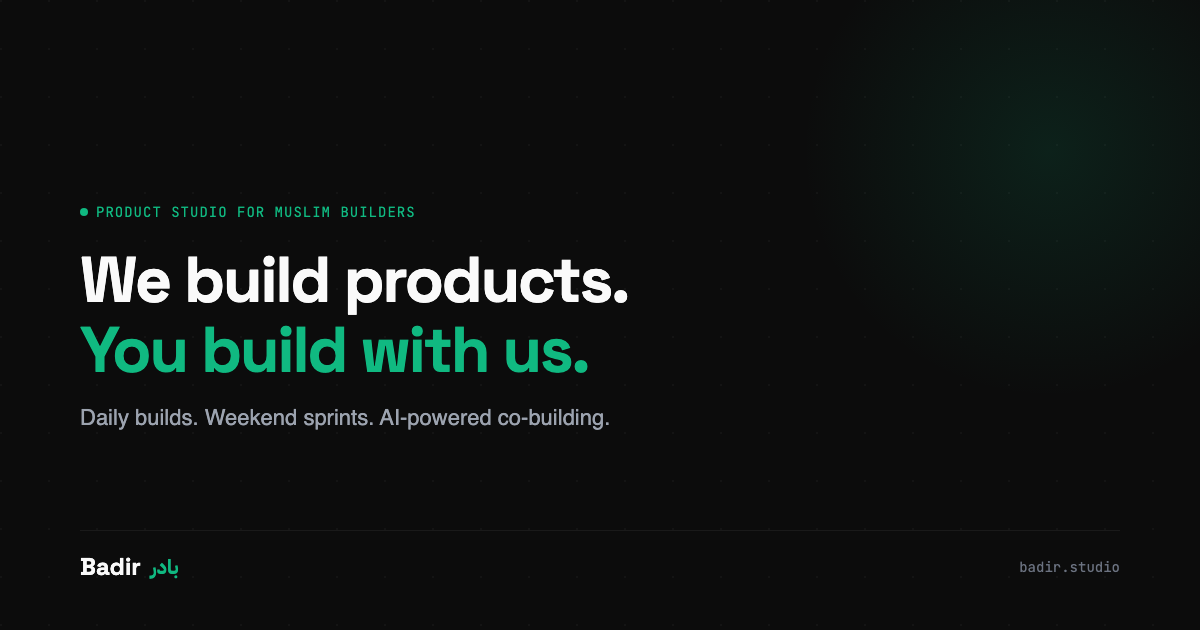
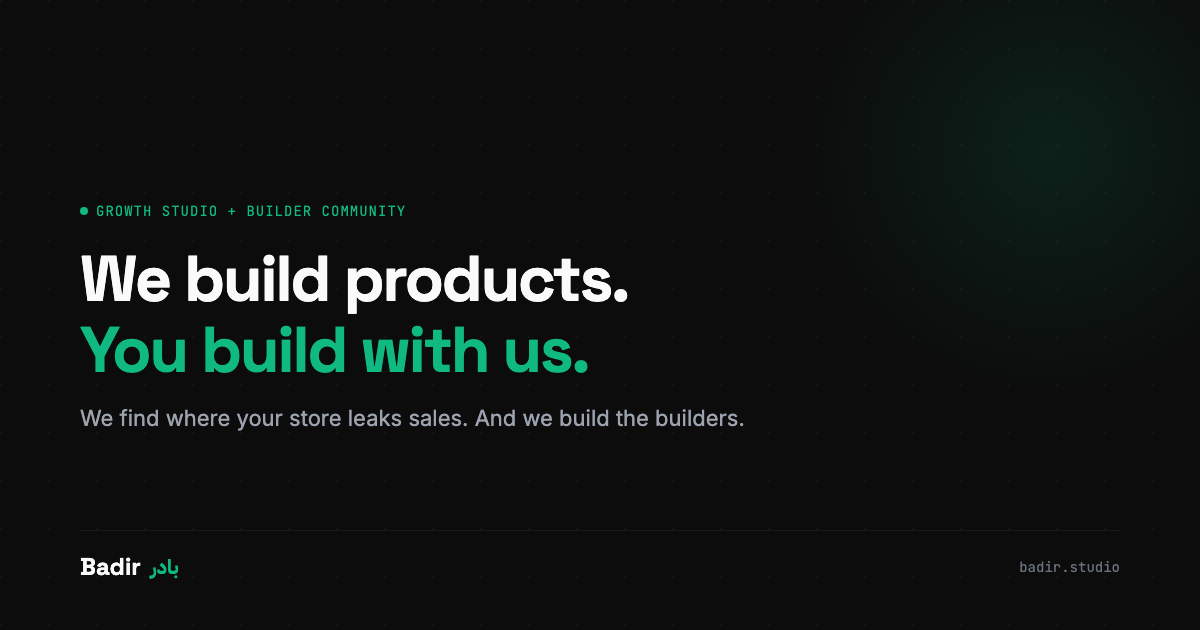
fix(honesty): fabricated-persona pages, false competitor claims, invented stats
A second, deeper adversarial audit found an older site cluster under the
same domain that every previous pass had missed. All findings below were
verified directly before acting.

FABRICATED PEOPLE (worst finding). /community listed invented named
professionals under the heading 'Trusted doctors, lawyers, accountants,
tradies': 'Dr. Fatima Hassan - General Practitioner. Accepts new patients',
'Ahmed Ali - Immigration Lawyer ... visa applications, residency, work
permits', 'Hassan Electrical - Licensed electrician', plus invented housing
in real Tauranga suburbs and 'Community-verified' halal tags. Immigration
advice is a licensed activity in NZ and 'licensed electrician' is a
regulated claim. /feed carried invented members flagged verified:true, one
with a mentor badge running weekly hours, and fake revenue - and BOTH
api/signup.js and api/signin.js redirected every real new account there.

Some listings on /community are real (Turkish Stars Kebab, Pak N Save), so
surgical deletion was unsafe. Both pages are instead made unreachable via a
TEMPORARY vercel redirect pending a founder decision, and removed from the
sitemap. Fully reversible: delete two entries from vercel.json. Signup and
signin now land on /build instead of the fabricated feed.

FALSE CLAIMS ABOUT NAMED THIRD PARTIES
- Muslamic Makers was described in the present tense as running meetups
  with 'no shipping cadence ... you go home'. It retired in 2026 after a
[…]

diff --git a/index.html b/index.html
@@ -27,7 +27,7 @@
       "name": "Badir Studio",
       "alternateName": ["بادر", "Badir"],
       "description": "Two co-equal engines: a studio that finds where a Muslim online brand's store is leaking sales, fixes it and proves the result in the owner's own numbers (modest-fashion-led), and a builder community where Muslim builders ship something every day. Based in Tauranga, New Zealand.",
-      "disambiguatingDescription": "Badir Studio (badir.studio) is a product studio for Muslim builders founded in 2026 in New Zealand. Not affiliated with the BADIR Program technology incubator in Saudi Arabia.",
+      "disambiguatingDescription": "Badir (badir.studio) is a growth studio for Muslim online brands and a builder community, founded in 2026 in New Zealand. Not affiliated with the BADIR Program technology incubator in Saudi Arabia.",
       "url": "https://badir.studio",
       "sameAs": [
         "https://linkedin.com/in/mustafa-demirsoy",
@@ -84,7 +84,7 @@
           "name": "How much do Badir studio services cost?",
           "acceptedAnswer": {
             "@type": "Answer",
-            "text": "Pricing is project-based: Product Sprints (48hr) $2K-5K, MVP Development $5K-20K, Brand Strategy (full pipeline) $3K-10K, AI Automation Setup $5K-15K, Monthly Monitoring $500-2K/mo retainer. We also work on equity or revenue share for selected projects. These are PROJECT rates. The /offer growth ladder is separate: the audit is free, and during the founding cohort the Build and Run rates are given on the call rather than published."
+            "text": "Pricing is project-based: Product Sprints (48hr) $2K-5K, MVP Development $5K-20K, Brand Strategy (full pipeline) $3K-10K, AI Automation Setup $5K-15K, Monthly Monitoring $500-2K/mo retainer. Badir does not take equity; engagements are project-based or retainer. These are PROJECT rates. The /offer growth ladder is separate: the audit is free, and during the founding cohort the Build and Run rates are given on the call rather than published."
           }
         },
         {
@@ -108,7 +108,7 @@
           "name": "What is the CORE framework?",
           "acceptedAnswer": {
             "@type": "Answer",
-            "text": "CORE is Badir's proprietary brand discovery framework. It maps a business's Core purpose, Origin story, Resonance points (what connects with the audience), and Expression system (visual and verbal identity). It produces a complete brand foundation: positioning, messaging, voice, and design system."
+            "text": "CORE is our adaptation of Jose Caballer's (The Futur) brand discovery framework. It maps a business's Core purpose, Origin story, Resonance points (what connects with the audience), and Expression system (visual and verbal identity). It produces a complete brand foundation: positioning, messaging, voice, and design system."
           }
         },
         {
@@ -1202,7 +1202,7 @@
             <div class="stats-bar reveal">
                 <div class="stat"><div class="stat-val"><span class="accent">6</span></div><div class="stat-label">Products Shipped</div></div>
                 <div class="stat"><div class="stat-val">48<span style="font-size:18px">hr</span></div><div class="stat-label">Sprint to Ship</div></div>
-                <div class="stat"><div class="stat-val">$2.43<span style="font-size:18px">T</span></div><div class="stat-label">Halal Economy</div></div>
+                <div class="stat"><div class="stat-val">$2.43<span style="font-size:18px">T</span></div><div class="stat-label">Muslim consumer spend</div></div>
                 <div class="stat"><div class="stat-val"><span class="accent">313</span></div><div class="stat-label">The Odds at Badr</div></div>
             </div>
             <div class="proof-strip reveal">
@@ -1426,7 +1426,7 @@
                 <div class="why-card why-problem">
                     <div class="why-label">The gap</div>
                     <h3>Muslim youth are the largest untapped builder generation on earth.</h3>
-                    <p><strong>Nearly 2 billion Muslims</strong> — with a median age of 24, the youngest demographic of any major faith. A <strong>$2.43 trillion</strong> halal economy growing to $3.36 trillion by 2028. Yet Muslim founders are deeply <strong>underrepresented</strong> in tech — just 3% of UK VC-backed startups have a Muslim founder. The talent is there. The drive is there. The faith is there. What's missing is a place that turns inspiration into products — not another conference, not another accelerator that takes equity, not another MSA that talks but never ships.</p>
+                    <p><strong>Nearly 2 billion Muslims</strong> — with a median age of 24, the youngest demographic of any major faith. <strong>US$2.43 trillion</strong> in Muslim consumer spend growing to $3.36 trillion by 2028. Yet Muslim founders are deeply <strong>underrepresented</strong> in tech — just 3% of the top-20 UK VC-backed startups have a Muslim founder. The talent is there. The drive is there. The faith is there. What's missing is a place that turns inspiration into products — not another conference, not another accelerator that takes equity, not another MSA that talks but never ships.</p>
                 </div>
 
                 <div class="why-card why-solution">
@@ -1754,7 +1754,7 @@
                 <div class="agent-panel">
                     <div class="agent-panel-header">
                         <div class="agent-panel-title">AI Operating System</div>
-                        <div class="agent-panel-status">24 agents online</div>
+                        <div class="agent-panel-status">24 agents in the system</div>
                     </div>
                     <div class="agent-list">
                         <div class="agent-item"><span class="agent-item-icon">📝</span><span class="agent-item-name">Content Engine</span><span class="agent-item-dot"></span></div>

diff --git a/ldj.html b/ldj.html
@@ -4,11 +4,11 @@
     <meta charset="UTF-8">
     <meta name="viewport" content="width=device-width, initial-scale=1.0">
     <title>Lightning Decision Jam — 45 Min Sprint Format | Badir</title>
-    <meta name="description" content="A 45-minute Lightning Decision Jam sprint format for Badir's weekend sessions. Problem → Solution → Action in one session. Used by Google, Spotify, LEGO.">
+    <meta name="description" content="A 45-minute Lightning Decision Jam sprint format for Badir's weekend sessions. Problem → Solution → Action in one session. A 45-minute decision format.">
     <meta name="robots" content="index, follow, max-snippet:-1, max-image-preview:large, max-video-preview:-1">
     <link rel="canonical" href="https://badir.studio/ldj">
     <meta property="og:title" content="Lightning Decision Jam — Solve Real Problems in 45 Minutes">
-    <meta property="og:description" content="A structured sprint where Muslim builders solve their biggest blockers together. No lectures. No theory. Just action. Used by Google, Spotify, LEGO.">
+    <meta property="og:description" content="A structured sprint where Muslim builders solve their biggest blockers together. No lectures. No theory. Just action. A 45-minute decision format.">
     <meta property="og:type" content="website">
     <meta property="og:url" content="https://badir.studio/ldj">
     <meta property="og:image" content="https://badir.studio/og-image.png">
@@ -219,27 +219,27 @@
     <h2 class="reveal">How the Best Teams Solve Problems</h2>
 
     <p class="sprint-intro reveal" style="margin-bottom: 24px;">
-        The Lightning Decision Jam isn't something we invented — it's the same structured sprint methodology used by <strong>Google, Spotify, LEGO, Slack, and hundreds of top tech companies</strong> to make fast, high-quality decisions.
+        The Lightning Decision Jam isn't something we invented — it's the same structured sprint methodology widely used in product teams. <strong>Badir has no affiliation with any company named here</strong> to make fast, high-quality decisions.
     </p>
     <p class="sprint-intro reveal" style="margin-bottom: 32px;">
-        Developed by <strong>AJ&Smart</strong> (the team behind Google's Design Sprint), the LDJ is built on decades of research in collaborative problem-solving. The data is clear:
+        Developed by <strong>AJ&amp;Smart</strong>, building on the Design Sprint created by Jake Knapp at Google Ventures, the LDJ is built on decades of research in collaborative problem-solving. Why the format works:
     </p>
 
     <div class="score-grid stagger" style="margin-bottom: 48px;">
         <div class="score-item reveal">
             <div class="number" data-count="3.5" data-suffix="x">0</div>
             <h4>Faster Decisions</h4>
-            <p>Structured sprints produce decisions 3.5x faster than traditional meetings (McKinsey, 2024)</p>
+            <p>Structured sprints replace open-ended meetings with a timeboxed decision</p>
         </div>
         <div class="score-item reveal">
             <div class="number" data-count="75" data-suffix="%">0</div>
             <h4>Ideas from Quiet Voices</h4>
-            <p>Silent writing phases surface 75% more ideas from introverts who stay quiet in open discussion</p>
+            <p>Silent writing phases give quieter people a real say who stay quiet in open discussion</p>
         </div>
         <div class="score-item reveal">
             <div class="number" data-count="92" data-suffix="%">0</div>
             <h4>Follow-Through Rate</h4>
-            <p>Public commitments with deadlines have a 92% follow-through rate vs 30% for "let's circle back"</p>
+            <p>Public commitments with a named owner and a date beat "let's circle back"</p>
         </div>
         <div class="score-item reveal">
             <div class="number" data-count="0" data-suffix="">0</div>

diff --git a/services.html b/services.html
@@ -77,7 +77,7 @@
           "name": "What is the CORE framework?",
           "acceptedAnswer": {
             "@type": "Answer",
-            "text": "CORE is Badir's proprietary brand discovery method. C = Core purpose (why you exist beyond money). O = Origin story (what brought you here). R = Resonance points (what connects with your specific audience). E = Expression system (voice, visuals, messaging). It produces a complete brand foundation that guides everything you build."
+            "text": "CORE is our adaptation of Jose Caballer's (The Futur) brand discovery method. C = Core purpose (why you exist beyond money). O = Origin story (what brought you here). R = Resonance points (what connects with your specific audience). E = Expression system (voice, visuals, messaging). It produces a complete brand foundation that guides everything you build."
           }
         },
         {
@@ -101,7 +101,7 @@
           "name": "Do you work with businesses outside New Zealand?",
           "acceptedAnswer": {
             "@type": "Answer",
-            "text": "Yes. Badir is based in Tauranga, NZ but all work is delivered remotely. We serve clients in New Zealand, Australia, UK, US, and the Middle East. Time zones are managed through async communication and structured sprint schedules."
+            "text": "Yes. Badir is based in Tauranga, NZ and all work is delivered remotely. We are pre-launch and onboarding a founding cohort of 20 brands. Time zones are managed through async communication and structured sprint schedules."
           }
         }
       ]
@@ -714,7 +714,7 @@
     <!-- CORE FRAMEWORK -->
     <section class="core-section">
         <div class="container">
-            <div class="badge badge-gold" style="display:block;text-align:center;margin-bottom:24px;">Proprietary Method</div>
+            <div class="badge badge-gold" style="display:block;text-align:center;margin-bottom:24px;">Adapted Framework</div>
             <h2>The CORE Framework</h2>
             <p>Every brand we build starts here. Four dimensions that turn a vague idea into a clear, differentiated brand.</p>
 
@@ -818,7 +818,7 @@
                         <span class="faq-toggle">+</span>
                     </div>
                     <div class="faq-a">
-                        <p>Yes. Badir is based in Tauranga, NZ but all work is delivered remotely. We serve clients in New Zealand, Australia, UK, US, and the Middle East. Time zones are managed through async communication and structured sprint schedules.</p>
+                        <p>Yes. Badir is based in Tauranga, NZ and all work is delivered remotely. We are pre-launch and onboarding a founding cohort of 20 brands. Time zones are managed through async communication and structured sprint schedules.</p>
                     </div>
                 </div>
 
@@ -828,7 +828,7 @@
                         <span class="faq-toggle">+</span>
                     </div>
                     <div class="faq-a">
-                        <p>CORE is Badir's proprietary brand discovery method. C = Core purpose (why you exist beyond money). O = Origin story (what brought you here). R = Resonance points (what connects with your specific audience). E = Expression system (voice, visuals, messaging). It produces a complete brand foundation that guides everything you build.</p>
+                        <p>CORE is our adaptation of Jose Caballer's (The Futur) brand discovery method. C = Core purpose (why you exist beyond money). O = Origin story (what brought you here). R = Resonance points (what connects with your specific audience). E = Expression system (voice, visuals, messaging). It produces a complete brand foundation that guides everything you build.</p>
                     </div>
                 </div>
             </div>

diff --git a/blog/muslim-builder-ecosystem.html b/blog/muslim-builder-ecosystem.html
@@ -6,7 +6,7 @@
     <title>The Muslim Builder Ecosystem: 40+ Organizations, One Missing Piece — Badir</title>
     <meta name="description" content="We analyzed 40+ organizations serving Muslim youth in tech and entrepreneurship. The landscape fragments into 5 clusters — and one critical quadrant is empty.">
     <meta property="og:title" content="The Muslim Builder Ecosystem: 40+ Organizations, One Missing Piece">
-    <meta property="og:description" content="Nearly 2 billion Muslims. $2.43 trillion halal economy. Muslim founders 67% underrepresented in UK VC. We mapped every organization and found the gap.">
+    <meta property="og:description" content="Nearly 2 billion Muslims. US$2.43 trillion in Muslim consumer spend. Muslim founders 67% underrepresented in UK VC. We mapped every organization and found the gap.">
     <meta property="og:type" content="article">
     <meta property="og:url" content="https://badir.studio/blog/muslim-builder-ecosystem">
     <meta property="og:image" content="https://badir.studio/og-image.png">
@@ -362,7 +362,7 @@
         <div class="article-container">
 
             <!-- INTRO -->
-            <p class="article-intro reveal">Here is a paradox: <strong>1.9 billion Muslims</strong> worldwide. The youngest demographic of any major faith &mdash; 46% under 24 in the UK, 26% aged 18&ndash;24 in the US. A <strong>$2.43 trillion halal economy</strong> growing to $3.36 trillion by 2028. And yet, Muslim founders are <strong>67% underrepresented</strong> among UK VC-backed startups. For every 1,000 startup founders there, only 1 is a Muslim woman.</p>
+            <p class="article-intro reveal">Here is a paradox: <strong>1.9 billion Muslims</strong> worldwide. The youngest demographic of any major faith &mdash; 46% under 24 in the UK, 26% aged 18&ndash;24 in the US. <strong>US$2.43 trillion</strong> in Muslim consumer spend growing to $3.36 trillion by 2028. And yet, Muslim founders are <strong>67% underrepresented</strong> among UK VC-backed startups. For every 1,000 startup founders there, only 1 is a Muslim woman.</p>
 
             <p class="reveal">Where are the builders?</p>
 
@@ -375,7 +375,7 @@
                 </div>
                 <div class="stat-card">
                     <span class="stat-num">$2.43T</span>
-                    <span class="stat-label">Halal consumer economy (2023)</span>
+                    <span class="stat-label">Muslim consumer spend (2023, DinarStandard)</span>
                 </div>
                 <div class="stat-card">
                     <span class="stat-num">67%</span>
@@ -395,7 +395,7 @@
             <div class="cluster-card reveal">
                 <h4>1. Muslim Tech Communities</h4>
                 <div class="cluster-orgs">MTC &middot; Muslamic Makers &middot; Habibi Tech &middot; Tech Sisters</div>
-                <p>Networking and career-focused. <strong>Muslim Tech Collaborative</strong> has 30+ university chapters but prepares Muslims to work IN tech, not to build WITH tech. <strong>Muslamic Makers</strong> (UK, 2K members in 10 years) runs meetups but no shipping cadence. You attend, you network, you go home. Nobody asks: "What did you build this week?"</p>
+                <p>Networking and career-focused. <strong>Muslim Tech Collaborative</strong> has 30+ university chapters but prepares Muslims to work IN tech, not to build WITH tech. <strong>Muslamic Makers</strong> ran from 2016 to 2026 and retired after a decade &mdash; 3,300+ members at its peak, six chapters, and /Cubit, a startup school. Its closing note says the gap it set out to fill is now a thriving landscape. Nobody asks: "What did you build this week?"</p>
             </div>
 
             <div class="cluster-card reveal reveal-delay-1">

diff --git a/about.html b/about.html
@@ -242,7 +242,7 @@
     <div class="inner prose">
         <div class="label"><span class="ar">بادِر</span> · A BUILDER COMMUNITY FOR MUSLIMS</div>
         <h1>I build things.<br>And I'd rather build them <span class="grad">with you.</span></h1>
-        <p class="sub">Badir is a few Muslims who actually build — shipping real things, together, and serving the ummah while we do it. <strong>Bismillah, ship it.</strong></p>
+        <p class="sub">Badir is me, building in the open, with whoever shows up — shipping real things, together, and serving the ummah while we do it. <strong>Bismillah, ship it.</strong></p>
         <div class="cta-row">
             <a href="/build#join" class="btn btn-primary">Build with us <span aria-hidden="true">→</span></a>
             <a href="#story" class="link-soft">Read the story ↓</a>
@@ -336,7 +336,7 @@
 <section class="sec sec--surface">
     <div class="inner wide reveal">
         <div class="label">BUILD WITH US</div>
-        <h2>This isn't an agency. It's a few Muslims who actually build, together.</h2>
+        <h2>This isn't an agency. It's me, building in the open, with whoever shows up.</h2>
         <p class="doors-intro">We don't build <em>for</em> the ummah — we build <em>with</em> it. No lectures, no equity grabs, no waiting for permission. You bring a problem or join one, we jam it out in a session, and everyone walks away with a piece they own.</p>
         <div class="doors stagger">
             <a href="/build#join" class="door">
@@ -355,7 +355,7 @@
                 <span class="arrow">join the team →</span>
             </a>
         </div>
-        <p class="doors-momentum">We're running our first sessions now — <b>next one's in Hamilton, this Sunday after Isha.</b> Door's open.</p>
+        <p class="doors-momentum">We're running our first sessions now — <b>the next date goes up on the site as soon as it's set.</b> Door's open.</p>
     </div>
 </section>
 
@@ -369,7 +369,7 @@
         <p class="badr">Named after the Battle of <strong>Badr</strong> — 313 against an army three times their size. Victory came through faith and action, not numbers. The ones who showed up were the ones who mattered.</p>
 
         <div class="close-cta">
-            <h2>I'm not selling you anything. I'm building — and I'd rather build <span class="grad">with you.</span></h2>
+            <h2>The community side isn't a sale &mdash; that part's free. The studio side is how I pay for it. Either way I'm building — and I'd rather build <span class="grad">with you.</span></h2>
             <p class="sub">If you're a Muslim who wants to build and serve, there's a seat. <em>Bismillah, ship it.</em></p>
             <div class="cta-row">
                 <a href="/build#join" class="btn btn-gold">Build with us <span aria-hidden="true">→</span></a>

diff --git a/hamilton-workshop.html b/hamilton-workshop.html
@@ -4,7 +4,7 @@
     <meta charset="UTF-8">
     <meta name="viewport" content="width=device-width, initial-scale=1.0">
     <title>Lightning Decision Jam — Hamilton, Sun 14 June | Badir</title>
-    <meta name="description" content="A Lightning Decision Jam for Muslim builders in Hamilton this Sunday (14 June), at the masjid after Isha. Bring your biggest blocker, leave with a clear plan in ~45 min. Free.">
+    <meta name="description" content="A Lightning Decision Jam for Muslim builders held in Hamilton on Sunday 14 June 2026 (), at the masjid after Isha. Bring your biggest blocker, leave with a clear plan in ~45 min. Free.">
     <meta property="og:title" content="Lightning Decision Jam — Hamilton, Sun 14 June | Badir">
     <meta property="og:description" content="Bring your biggest blocker, leave with a plan. A 45-min Lightning Decision Jam for Muslim builders — Hamilton masjid, after Isha. Free.">
     <meta property="og:type" content="website">
@@ -116,7 +116,7 @@
     <div class="wrap">
         <div class="badge">HAMILTON · LIGHTNING DECISION JAM</div>
         <h1>Bring your blocker.<br><span class="grad">Leave with a plan.</span></h1>
-        <p class="lead">I'm running a <b style="color:var(--white)">Lightning Decision Jam</b> in Hamilton this Sunday — at the masjid, <b style="color:var(--white)">after Isha</b>. If you're a Muslim who builds (or wants to), bring the one thing you're stuck on. In ~45 minutes, together, we turn it into clear next steps. The method Google, Spotify and LEGO use — no fluff, no endless discussion.</p>
+        <p class="lead">I'm running a <b style="color:var(--white)">Lightning Decision Jam</b> in Hamilton on Sunday 14 June 2026 — at the masjid, <b style="color:var(--white)">after Isha</b>. If you're a Muslim who builds (or wants to), bring the one thing you're stuck on. In ~45 minutes, together, we turn it into clear next steps. A 45-minute decision format used widely in product teams — no fluff, no endless discussion.</p>
 
         <div class="facts">
             <div class="fact"><div class="k">When</div><div class="v">Sun 14 June</div></div>
@@ -135,7 +135,7 @@
         <div class="form-card" id="card">
             <div id="form-view">
                 <h2>Grab your spot</h2>
-                <p class="sub">At the masjid, <b style="color:var(--white)">after Isha</b>, this Sunday (14 June). Limited seats — it's small and hands-on. I'll email you the exact time and the masjid details.</p>
+                <p class="sub">At the masjid, <b style="color:var(--white)">after Isha</b>, on Sunday 14 June 2026. Past event — it's small and hands-on. I'll email you the exact time and the masjid details.</p>
                 <form id="reg-form">
                     <div class="field">
                         <label for="name">Your name</label>

diff --git a/badir.html b/badir.html
@@ -1032,7 +1032,7 @@
         Badir <span class="arabic">بادر</span>
     </a>
     <div class="nav-links">
-        <a href="index.html">Mosque</a>
+        <a href="mosque.html">Mosque</a>
         <a href="#origin">The Story</a>
         <a href="#solution">How It Works</a>
         <a href="sprint-001.html">Sprint 001</a>
@@ -1052,7 +1052,7 @@
         That's the spirit of Badir: start building when nobody else will.
     </p>
     <div class="hero-ctas">
-        <a href="#join" class="btn-primary">Be One of the 313 &rarr;</a>
+        <a href="#join" class="btn-primary">Be one of the first builders &rarr;</a>
         <a href="#origin" class="btn-secondary">Read the story</a>
     </div>
     <div class="hero-stats">
@@ -1070,7 +1070,7 @@
         </div>
         <div class="hero-stat">
             <span class="number">0</span>
-            <span class="label">Daily builder communities for Muslim youth. Until now.</span>
+            <span class="label">Muslim builder communities running an everyday cadence.</span>
         </div>
     </div>
 </div>
@@ -1149,7 +1149,7 @@
             <div class="icon">&#x1f4ac;</div>
             <h3>All Talk, No Ship</h3>
             <p>Muslim orgs run conferences, halaqas, panels, and WhatsApp groups. Everyone's "inspired" for two weeks. Then nothing. The gap between intention and action is a canyon.</p>
-            <div class="stat">40+ Muslim orgs analyzed. Zero cohort-based builder programs.</div>
+            <div class="stat">40+ Muslim orgs analysed. Most run events, not everyday build programmes.</div>
         </div>
         <div class="problem-card">
             <div class="icon">&#x1f6d1;</div>
@@ -1170,7 +1170,7 @@
 <div class="stats-banner animate-on-scroll" style="margin: 0 32px;">
     <div class="stat-block">
         <div class="value">$2.43T</div>
-        <div class="desc">Halal economy.<br>Growing to $3.36T by 2028.</div>
+        <div class="desc">Muslim consumer spend.<br>Growing to $3.36T by 2028.</div>
     </div>
     <div class="stat-block">
         <div class="value">84%</div>
@@ -1340,7 +1340,7 @@
     <!-- WAITLIST FORM -->
     <form class="waitlist-form" id="waitlistForm">
         <input type="email" id="waitlistEmail" placeholder="your@email.com" required autocomplete="email">
-        <button type="submit" id="waitlistBtn">Join the 313 &rarr;</button>
+        <button type="submit" id="waitlistBtn">Join the builders &rarr;</button>
     </form>
     <div class="waitlist-success" id="waitlistSuccess">
         <div class="check-icon">&#x2713;</div>

diff --git a/apply.html b/apply.html
@@ -379,7 +379,7 @@
     var tracks = [
         {
             name: "Studio Team",
-            desc: "Work on paid client projects alongside MKD. Brand strategy, MVP builds, AI automation. Revenue share or project-based pay.",
+            desc: "Pre-launch: as founding-cohort brands sign, Studio Team contributors get first call on paid work alongside MKD. Brand strategy, MVP builds, AI automation. Rate by experience.",
             minScore: 75,
             reqs: "Requires: solid skills, 20+ hrs/week, shipped products, strong portfolio"
         },

diff --git a/signup.html b/signup.html
@@ -314,7 +314,7 @@
 
     <main>
         <div class="auth-card">
-            <span class="kicker">Be one of the first 313</span>
+            <span class="kicker">Be one of the first builders</span>
             <h1 id="heading">Join the <span class="accent">builders</span>.</h1>
             <p class="sub" id="sub"><span class="arabic">بسم الله</span> &mdash; your account is the first ship. Daily builds, weekend sprints, real accountability.</p>
 

diff --git a/build.html b/build.html
@@ -113,7 +113,7 @@
         <!-- NEXT SESSION -->
         <div class="next">
             <div class="ic">🕌</div>
-            <div class="txt"><b>Next session:</b> Hamilton — this Sunday, after Isha. Bring your blocker, leave with a plan.</div>
+            <div class="txt"><b>Next session:</b> date going up here as soon as it's set. Bring your blocker, leave with a plan.</div>
             <a href="/hamilton-workshop">Join →</a>
         </div>
 

diff --git a/sprint-001.html b/sprint-001.html
@@ -113,9 +113,9 @@
 <div class="grid-bg"></div>
 
 <nav>
-    <a href="index.html" class="nav-logo">Tauranga Mosque</a>
+    <a href="mosque.html" class="nav-logo">Tauranga Mosque</a>
     <div class="nav-links">
-        <a href="index.html">Mosque</a>
+        <a href="mosque.html">Mosque</a>
         <a href="badir.html">Badir</a>
         <a href="reverts.html">New Muslims</a>
         <a href="scorecard.html">Assessment</a>

diff --git a/reverts.html b/reverts.html
@@ -246,7 +246,7 @@
         <span class="crescent">&#9774;</span> Tauranga Mosque
     </a>
     <div class="nav-links">
-        <a href="index.html">Mosque</a>
+        <a href="mosque.html">Mosque</a>
         <a href="community.html">Dashboard</a>
         <a href="badir.html">Badir</a>
         <a href="about.html">Founder</a>
